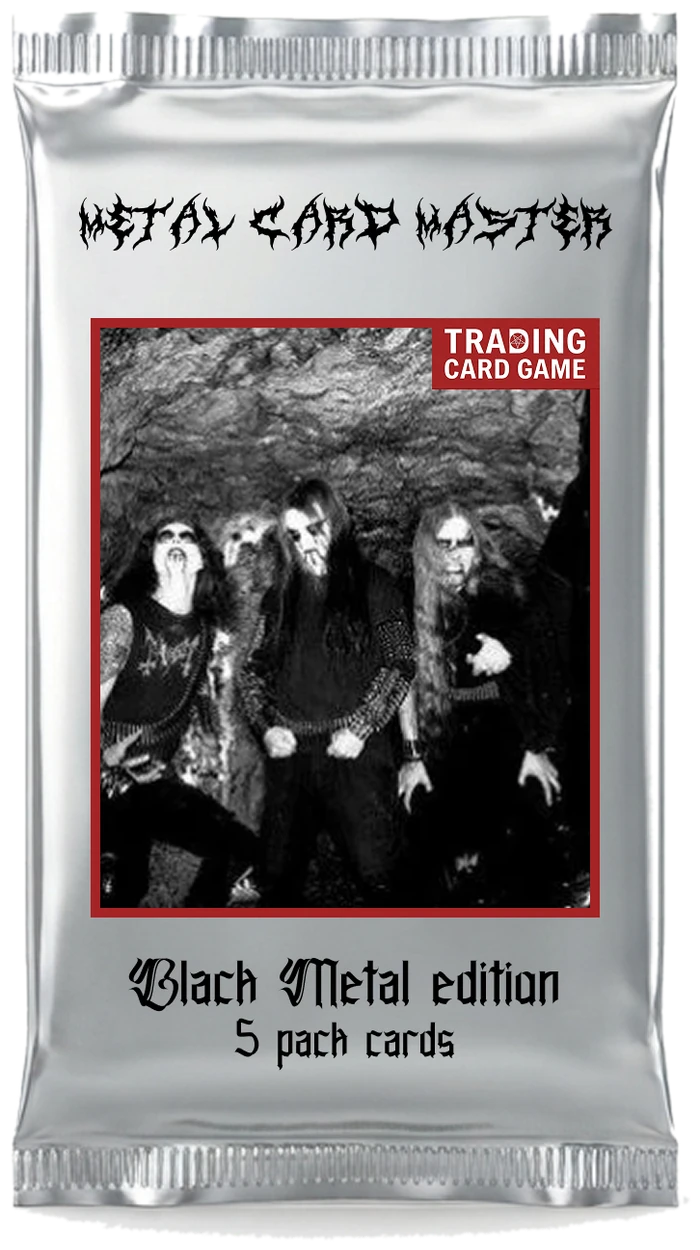
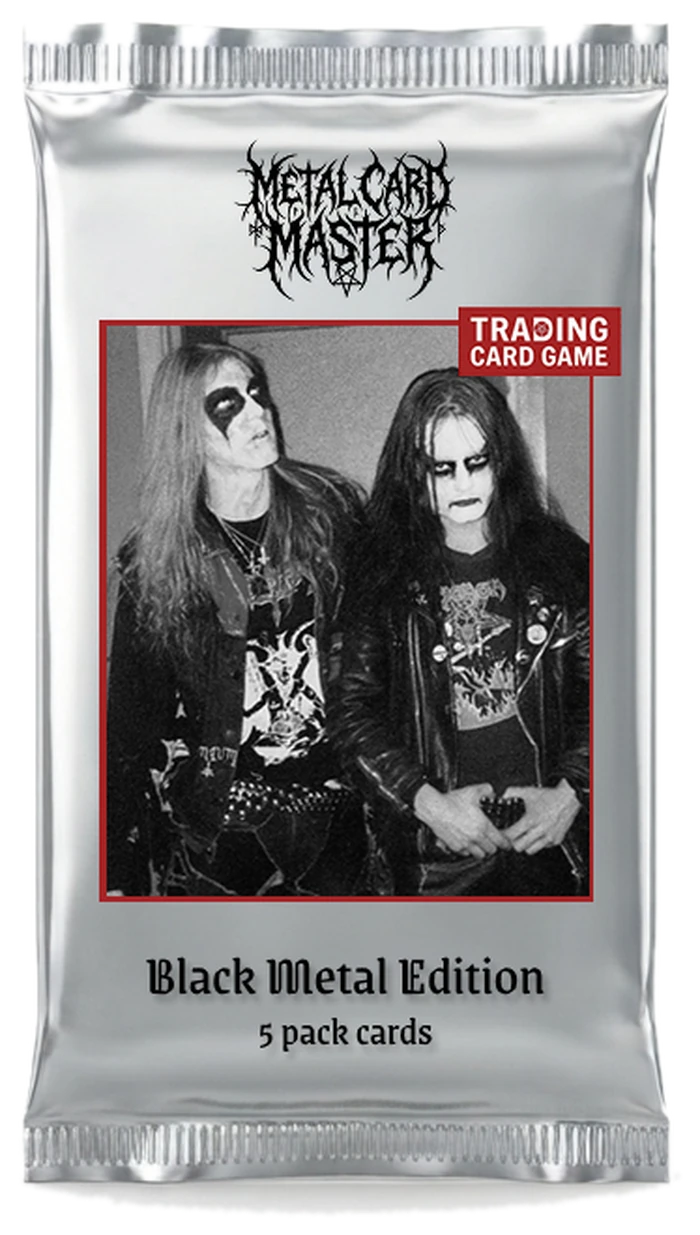
Remplace le visuel du pack Black Metal par la version corrigée
Nouveau packshot fourni avec le texte intégralement correct ("METAL
CARD MASTER" net, "Black Metal Edition", "5 pack cards"), détouré
sur fond uniquement (aucune retouche du contenu de l'image). Ratio
ajusté à 0.5667 (proportion exacte de cette version) pour que
l'image s'affiche sans rognage ni déformation.

Claude-Session: https://claude.ai/code/session_011USd2GFXDhdV5wb4oV88fb

diff --git a/index.html b/index.html
@@ -486,7 +486,7 @@ body::after {
    étirée. Les éléments .booster-brand-mark/.booster-count/.booster-art/.booster-edition
    restent dans le DOM (hidden) uniquement pour que startOpening() continue de fonctionner
    sans changement (cf. plus bas, pc-full-art reprend la même logique). */
-.booster:has(.booster-full-art) { aspect-ratio: 0.56; }
+.booster:has(.booster-full-art) { aspect-ratio: 0.5667; }
 .booster:has(.booster-full-art) .booster-body {
   clip-path: none; box-shadow: none; background: none;
 }
@@ -639,7 +639,7 @@ body::after {
    élément disparaît naturellement dès que le geste de déchirure démarre, comme .pc-mark. */
 .pack-closed:has(.pc-full-art) {
   clip-path: none; box-shadow: none; background: none;
-  aspect-ratio: 0.56;
+  aspect-ratio: 0.5667;
 }
 .pack-closed:has(.pc-full-art)::before { display: none; }
 .pc-full-art { position: absolute; inset: 0; z-index: 3; pointer-events: none; }
